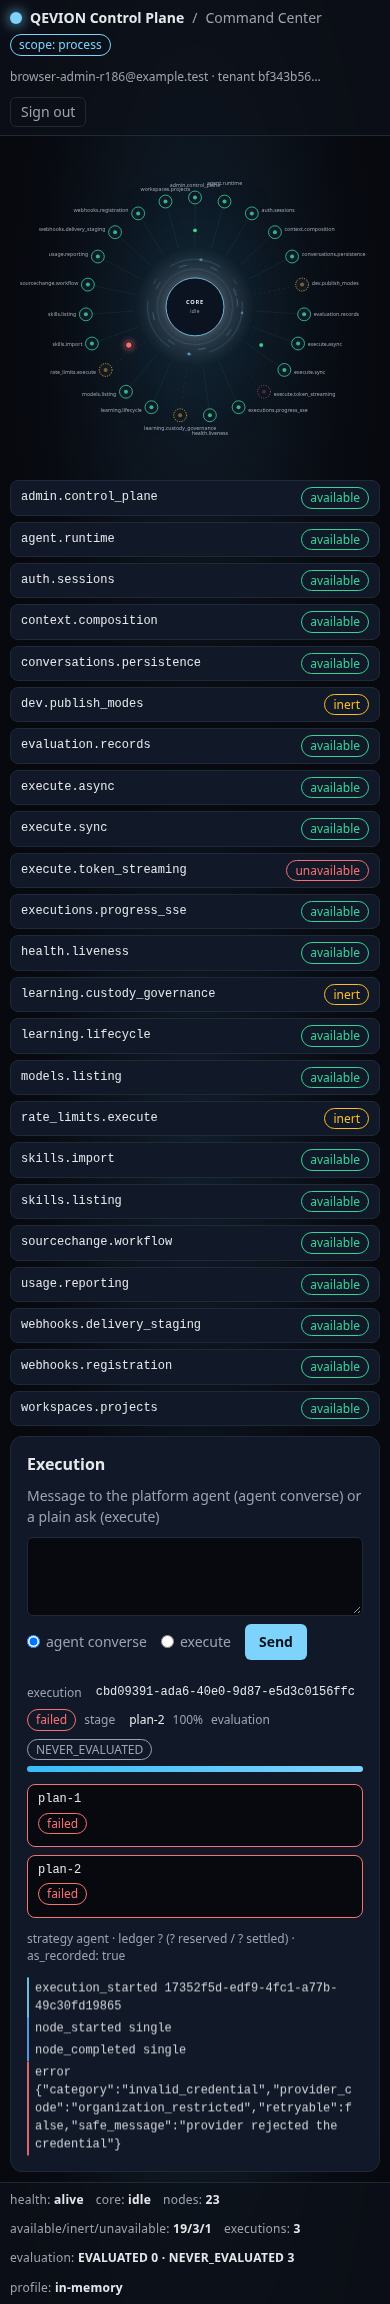
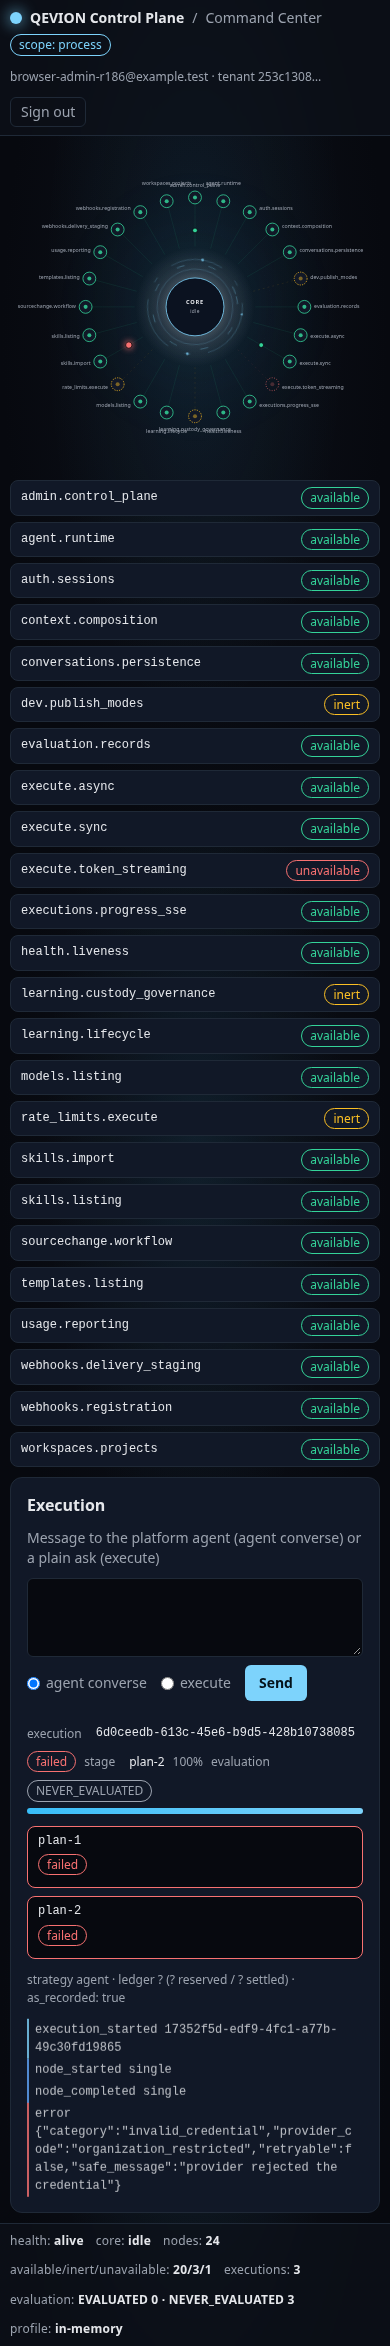
feat(ui/app): R197 Workbench template picker over GET /v1/templates — options from server rows (ref), execution_strategy template mode only when chosen, read after session; ceiling measured 22 at first GREEN; evidence/r197/green.txt; ledger row 3

diff --git a/ui/app/app.js b/ui/app/app.js
@@ -129,6 +129,7 @@ function enterMain(who) {
   $("who").textContent = who;
   $("logout-button").hidden = state.profile !== "durable" || !state.token;
   refreshWorkspaces();
+  populateTemplateSelect();
 }
 
 /* --- auth ----------------------------------------------------------------------- */
@@ -305,6 +306,30 @@ function confirmModal(title, message, okLabel) {
       body.appendChild(p);
     },
   });
+}
+
+/* --- strategy templates (R197, AD-3 read seam) -------------------------------------- */
+
+async function populateTemplateSelect() {
+  /* The ONLY template source is the served templates read model (R196 AD-3:
+     ACTIVE SYSTEM templates, ref-ordered by the server) — the one api() call below. Runs once the
+     session is established (enterMain), never at module load. Idempotent: a
+     re-read replaces the offered set; a refused read leaves NO stale option
+     behind and renders the platform's error verbatim — the UI never guesses. */
+  const select = $("ask-template");
+  clearError($("ask-error"));
+  const result = await api("/v1/templates");
+  while (select.options.length > 1) select.remove(1);
+  if (!result.ok) {
+    renderError($("ask-error"), result.body);
+    return;
+  }
+  for (const row of result.body.templates || []) {
+    const opt = document.createElement("option");
+    opt.value = row.ref;
+    opt.textContent = `${row.name} \u00b7 ${row.ref} \u00b7 ${row.stage_count} stage${row.stage_count === 1 ? "" : "s"}`;
+    select.appendChild(opt);
+  }
 }
 
 /* --- workspaces & projects (GAP-1 API — real state only) ---------------------------- */
@@ -604,6 +629,10 @@ async function submitAsk() {
     const body = { ask: $("ask-input").value };
     const projectId = $("ask-project").value;
     if (projectId) body.project_id = projectId;
+    /* Template mode (R197): the chosen ref is what the executor resolves
+       (ExecutionStrategySpec mode="template"); no choice ⇒ body unchanged. */
+    const templateRef = $("ask-template").value;
+    if (templateRef) body.execution_strategy = { mode: "template", template_id: templateRef };
     if (isAsync) body.execution_policy = { async: true };
     const result = await api("/v1/execute", { method: "POST", body });
     if (!result.ok) return renderError($("ask-error"), result.body);

diff --git a/ui/app/index.html b/ui/app/index.html
@@ -151,6 +151,10 @@
                 <span class="muted small">Project</span>
                 <select id="ask-project"><option value="">— none —</option></select>
               </label>
+              <label class="select-wrap">
+                <span class="muted small">Template</span>
+                <select id="ask-template"><option value="">— none (auto) —</option></select>
+              </label>
               <label class="inline small">
                 <input type="checkbox" id="ask-async"> live activity
                 <span class="muted">(async + real event stream)</span>

diff --git a/tests/ui/test_workbench_template_picker_r197.py b/tests/ui/test_workbench_template_picker_r197.py
@@ -183,7 +183,8 @@ def test_execution_strategy_is_sent_only_when_a_ref_is_chosen() -> None:
 def test_template_read_is_not_fired_at_module_load() -> None:
     code = _code()
     top = _top_level_statements(code)
-    assert "populateTemplateSelect(" not in top, "template read must not run at module load"
+    calls_at_top = re.findall(r"(?<!function )\bpopulateTemplateSelect\(", top)
+    assert calls_at_top == [], "template read must not run at module load"
     assert "populateTemplateSelect(" in _function_body(code, "enterMain"), (
         "template read must run once the session is established (enterMain), F-R180-01 pattern"
     )

diff --git a/evidence/r197_state_ledger.md b/evidence/r197_state_ledger.md
@@ -4,3 +4,4 @@
 |---|------|-----------|----------|--------|
 | 1 | opening declaration (before code) | branch `genspark_ai_developer_r197` from `main b8f2f706` | `green_manifest.json` `ui_workbench_static_check` (v1 ceiling null, fetch ceiling 4 measured) + `round_r197` ceiling 0; R197-DEC-01; `R197_HANDOFF.md` | DECLARED |
 | 2 | RED | addec78d (Workbench untouched) | `evidence/r197/red.txt` | 6 FAILED as planned (ceiling null fails closed; select, /v1/templates source, execution_strategy wiring, after-session read, refusal clearing all absent); the evidence module `test_r197_admin_actions_discovered.py` GREEN as declared (not claimed as RED) |
+| 3 | GREEN (working tree on aec5efe2) | ui/app/index.html (+4: select id=ask-template, HTML carries only the empty option), ui/app/app.js (+27: populateTemplateSelect() called from enterMain; submitAsk sends execution_strategy {mode:"template", template_id: ref} only when chosen); manifest v1_count_ceiling_app_js null -> **22** (measured: 21 + 1) | `evidence/r197/green.txt` 26/26; tests/ui (static) + test_ui_app_pd2 + tests/verification + budget guards 173/173; freeze --check MATCHES (46); `git diff origin/main -- core apps infrastructure ui/admin ui/app/command` EMPTY | GREEN |
